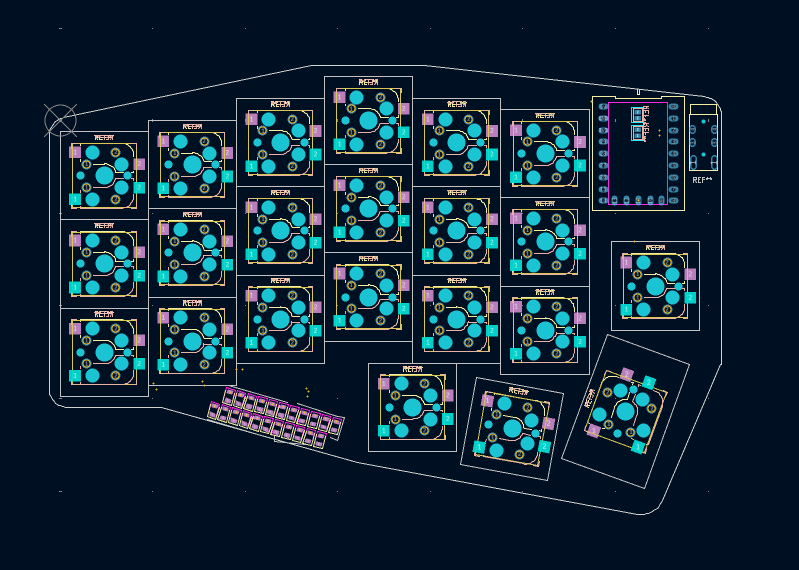
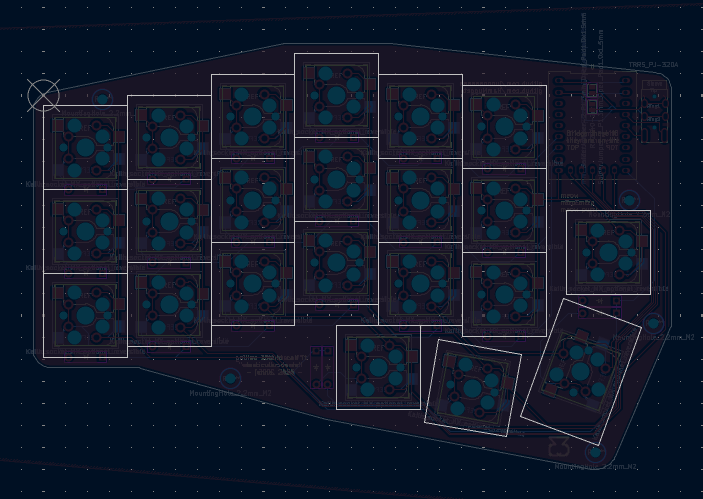
documentation changes

diff --git a/README.md b/README.md
@@ -1,16 +1,16 @@
 ![screenshot of the corne](https://github.com/HamNuggets/temu_corne/blob/main/screenshot.png?raw=true)
+![screenshot of the corne pcb](https://github.com/HamNuggets/temu_corne/blob/main/pcb.png?raw=true)
 
-todo:
+Current version: Testicular Corne v4
 
-- put a direction arrow in the diode cluster
-<<<<<<< HEAD
-- double check all wiring //done
-- fix malformed edge cuts //done
-- schematics
-- write qmk firmware for the board
-- shill cascade
-- 3d model a case
-- 3d model a plate
-- source parts
-- build that bitch
+Changes from Testicular Corne v3:
+- rid of the immature diode cluster
+- direction arrows on each diode
+- flavour text
+- ground plane
+
+Todo:
+- Make some firmware !!
+- The case
+- The plate
 
